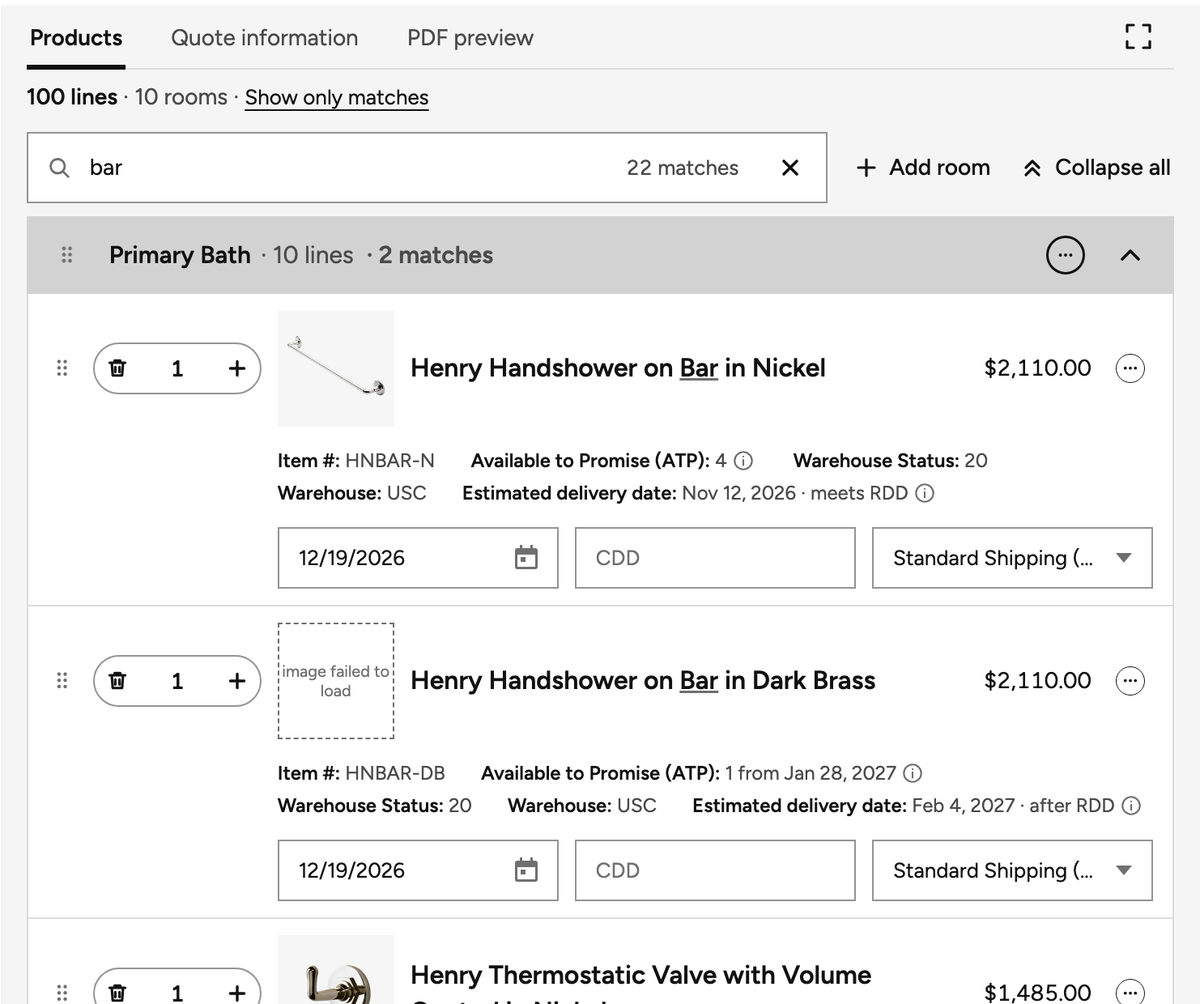
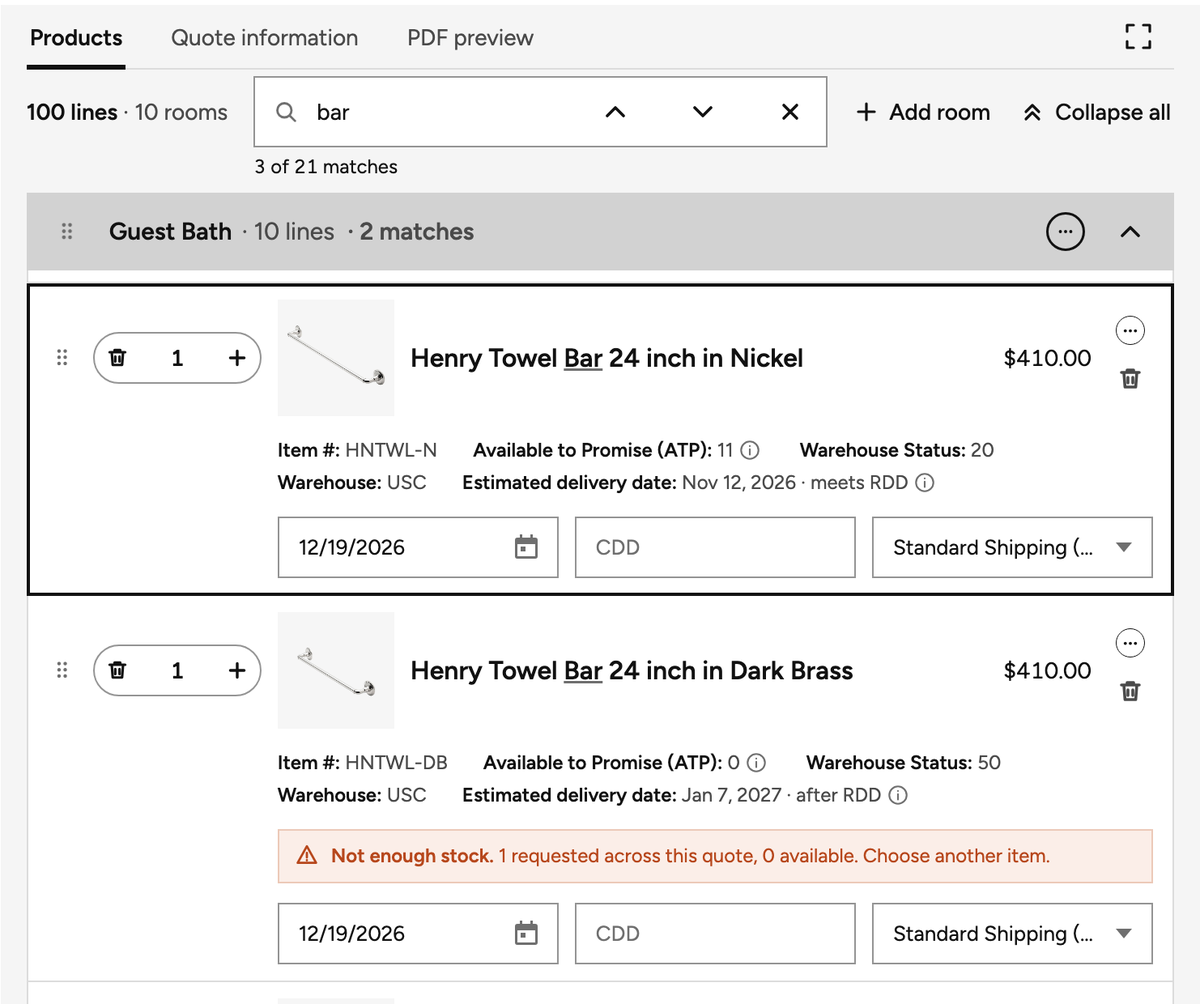
Find in this quote: find-in-page with arrows, items only
- Matches lines only (product name with finish, or item number), never
  room names.
- Up and down arrows in the box, plus Enter and Shift+Enter, step through
  every match in quote order, wrapping at the ends; the panel scrolls each
  line into view and the current line gets a black outline.
- "3 of 21 matches" (or "No matching lines") in small black text under the
  box; room bars keep their own counts. The "Only show matching lines"
  checkbox is gone, so nothing is hidden.
- New U-04 screenshot; CLAUDE.md and prd-trace updated.

diff --git a/qom-product-search-prototype-v2.html b/qom-product-search-prototype-v2.html
@@ -572,11 +572,11 @@ button.thumb:focus-visible{outline:2px solid var(--ink);outline-offset:2px}
 @container quote (max-width:860px){
   .qtools{flex-wrap:wrap}
   .qtact{flex:1 1 auto;flex-wrap:wrap;justify-content:flex-end;gap:8px 16px} /* stays on the count's row while it fits; wraps under it only when it doesn't, then fills the row */
-  .qtact .lfilter{flex:1 1 120px;width:auto;min-width:120px;max-width:none;margin-right:auto} /* small base so Add room and Collapse all stay beside it; it grows into the rest of the row */
+  .qtact .lfind{flex:1 1 120px;min-width:120px;max-width:none;margin-right:auto} /* small base so Add room and Collapse all stay beside it; it grows into the rest of the row */
 }
 @container quote (max-width:440px){
   .qtsum{flex-wrap:wrap;row-gap:2px}
-  .qtact .lfilter{flex-basis:100%;margin-right:0} /* the find box gets its own row; Add room and Collapse all sit under it */
+  .qtact .lfind{flex-basis:100%;margin-right:0} /* the find box gets its own row; Add room and Collapse all sit under it */
   .qbar .qtop,.qbar .qseg{min-width:0}
   .qbar .qseg{gap:16px}
   .qbar .qtab{flex:0 1 auto;min-width:0;font-size:13px;overflow:hidden;text-overflow:ellipsis}
@@ -591,10 +591,13 @@ button.thumb:focus-visible{outline:2px solid var(--ink);outline-offset:2px}
 /* Find in this quote: "2 of 5", previous / next and clear sit inside the field once there's something typed */
 .lfilter.on{min-width:min(340px,100%);padding-right:0}
 .lfilter [hidden]{display:none}
-.fonly{display:inline-flex;align-items:center;gap:8px;font-size:14px;color:var(--ink);white-space:nowrap;cursor:pointer}
-.fonly[hidden]{display:none}
-.fonly input{width:16px;height:16px;margin:0;accent-color:var(--ink);cursor:inherit}
-.fonly.off{color:var(--ink-3);cursor:default}
+/* the find box and its count: "3 of 21 matches" in small black text under the box, so the box keeps its width for typing */
+.lfind{position:relative;display:flex;flex:1 1 300px;min-width:150px;max-width:480px}
+.lfind .lfilter{flex:1 1 auto;width:100%;min-width:0;max-width:none}
+.findsub{position:absolute;left:0;top:calc(100% + 4px);margin:0;font-size:12px;line-height:16px;color:var(--ink);white-space:nowrap;font-variant-numeric:tabular-nums}
+.findsub[hidden]{display:none}
+.qtools.finding{padding-bottom:20px} /* room for the count under the box */
+.line.findcur{outline:2px solid var(--ink);outline-offset:-2px} /* the match the arrows are on */
 .lfilter input::-webkit-search-cancel-button{-webkit-appearance:none;appearance:none} /* our own clear button instead */
 .lfilter .findn{flex:none;font-size:13px;color:var(--ink-2);font-variant-numeric:tabular-nums;white-space:nowrap}
 .lfilter .fbtn{flex:none;width:44px;height:44px;margin:-1px 0;display:flex;align-items:center;justify-content:center;border:0;background:transparent;color:var(--ink);padding:0}
@@ -756,7 +759,7 @@ button.thumb:focus-visible{outline:2px solid var(--ink);outline-offset:2px}
 /* while the bar has nothing to show (Shipping Details switch hidden), the first room lines up with the top of the Rooms panel on the left */
 /* full view: the toolbar pins just under the tabs row; its 16px top padding is the gap under the tabs, so nothing peeks out above it */
 .pane.quote.expanded .qbar,.pane.quote.expanded .qbar:not(:has(.shipsw:not([hidden]))){top:-16px;margin-top:-16px;padding-top:16px;padding-bottom:8px}
-.pane.quote.expanded .lfilter{max-width:560px} /* full view: the find box grows into the toolbar row */
+.pane.quote.expanded .lfind{max-width:560px} /* full view: the find box grows into the toolbar row */
 .pane.quote.expanded .qfoot{bottom:-24px}
 body.noscroll{overflow:hidden}
 /* full screen: left panel with rooms, totals and save actions; products on the right */
@@ -1163,8 +1166,7 @@ body{padding-bottom:var(--bar-h,0px)} /* the page and both sides end above it */
         <div class="qtools" id="qTools">
           <div class="qtsum"><h2 class="sr">Selected products</h2><p class="qtcount" id="qtCount" aria-live="polite"></p></div>
           <div class="qtact" id="qtAct">
-            <label class="lfilter"><svg width="14" height="14" viewBox="0 0 16 16" fill="none" stroke="currentColor" stroke-width="1.6" stroke-linecap="round" aria-hidden="true"><circle cx="7" cy="7" r="5"/><path d="M11 11l3.5 3.5"/></svg><input type="search" id="lineFilter" placeholder="Find in this quote" aria-label="Find in this quote: product name, item number or room" autocomplete="off"><span class="findn" id="findCount" aria-live="polite" hidden></span><button type="button" class="fbtn" id="findClear" aria-label="Clear find" hidden><svg width="12" height="12" viewBox="0 0 12 12" fill="none" stroke="currentColor" stroke-width="1.8" stroke-linecap="round" aria-hidden="true"><path d="M2 2l8 8M10 2l-8 8"/></svg></button></label>
-            <label class="fonly" id="findOnlyWrap" hidden><input type="checkbox" id="findOnlyChk" autocomplete="off"><span>Only show matching lines</span></label>
+            <div class="lfind"><label class="lfilter"><svg width="14" height="14" viewBox="0 0 16 16" fill="none" stroke="currentColor" stroke-width="1.6" stroke-linecap="round" aria-hidden="true"><circle cx="7" cy="7" r="5"/><path d="M11 11l3.5 3.5"/></svg><input type="search" id="lineFilter" placeholder="Find in this quote" aria-label="Find in this quote: product name, finish or item number" aria-describedby="findSub" autocomplete="off"><button type="button" class="fbtn" id="findPrev" aria-label="Previous match" hidden><svg width="12" height="8" viewBox="0 0 12 8" fill="none" stroke="currentColor" stroke-width="1.8" stroke-linecap="round" stroke-linejoin="round" aria-hidden="true"><path d="M1 6.5l5-5 5 5"/></svg></button><button type="button" class="fbtn" id="findNext" aria-label="Next match" hidden><svg width="12" height="8" viewBox="0 0 12 8" fill="none" stroke="currentColor" stroke-width="1.8" stroke-linecap="round" stroke-linejoin="round" aria-hidden="true"><path d="M1 1.5l5 5 5-5"/></svg></button><button type="button" class="fbtn" id="findClear" aria-label="Clear find" hidden><svg width="12" height="12" viewBox="0 0 12 12" fill="none" stroke="currentColor" stroke-width="1.8" stroke-linecap="round" aria-hidden="true"><path d="M2 2l8 8M10 2l-8 8"/></svg></button></label><p class="findsub" id="findSub" aria-live="polite" hidden></p></div>
             <button type="button" class="tolink qtfold" id="toolAddBtn" aria-controls="roomMenu"><svg width="12" height="12" viewBox="0 0 12 12" fill="none" stroke="currentColor" stroke-width="1.6" stroke-linecap="round" aria-hidden="true"><path d="M6 1v10M1 6h10"/></svg><span>Add room</span></button>
             <button type="button" class="tolink qtfold" id="foldAll"></button>
           </div>
@@ -1727,7 +1729,7 @@ function renderRoomMenu(){
 const grip=(type,room,sku,label)=>`<button type="button" class="grip" data-grip="${type}" data-groom="${esc(room)}" data-gsku="${esc(sku)}" aria-label="Reorder ${esc(label)}. Drag, or press arrow up or down." title="Drag to reorder">⠿</button>`;
 // room name, then its type in grey unless the name is just the type ("sams kitchen · Kitchen", but "Bar", not "Bar · Bar").
 // Renaming is only in the room's "…" menu; a click on the name opens the room like the rest of the bar
-const roomName=r=>findHl(r.name,isFindHit(r.name))+(r.type&&r.type.toLowerCase()!==r.name.trim().toLowerCase()?` <span class="rtype">· ${esc(r.type)}</span>`:"");
+const roomName=r=>esc(r.name)+(r.type&&r.type.toLowerCase()!==r.name.trim().toLowerCase()?` <span class="rtype">· ${esc(r.type)}</span>`:"");
 // quantity cell: stepper always visible; unit + info icon unless the unit is "each"; the sold-in multiple is helper text, not just a tooltip
 const ICON={
   door:`<svg width="20" height="20" viewBox="0 0 20 20" fill="none" stroke="currentColor" stroke-width="1.5" stroke-linejoin="round" aria-hidden="true"><path d="M5 18V2h10v16M3 18h14M5 2l6 2v14"/><circle cx="9.3" cy="10.5" r=".6" fill="currentColor"/></svg>`,
@@ -1978,42 +1980,34 @@ const qtyCell=(r,l,p,id)=>{
 // the Details switch only appears once the quote has rooms with lines in them
 const SHOW_DET_SWITCH=false; // the Shipping Details switch is hidden for now; set to true to bring it back
 const detSwShown=()=>{ $("#detSwWrap").hidden=!SHOW_DET_SWITCH||S.qview!=="products"||!S.quote.rooms.some(r=>r.lines.length); };
-// "Find in this quote" (long quotes run to 100 lines): goes to the best match, marks every match and counts them, in the box and on each room bar.
-// Matches are counted in lines. Nothing is hidden unless the SC ticks "Only show matching lines" beside the box; the count line then says "Showing 21 matching lines of 100".
-// Enter goes to the next best match and Shift+Enter back; there are no arrow buttons. S.lineQ is the applied search (after a pause or Enter).
-// A match is a room whose name has every word, or a line whose product name (with its finish, as shown: "… in Nickel") or item number has at least one word
-// and, together with its room name, all of them (any order, any case). Words match at the start of a word ("bar" finds "on Bar",
-// not "Barlow" or "Crossbar"), and item numbers from their start ("hnbar" finds HNBAR-N, "bar" doesn't). Collapsed rooms count too; going to one opens it.
-// Best match first: exact item number, then item number starting with it, the phrase in the product name,
-// every word in the product's own name or number, other product matches, and rooms last; ties keep quote order.
+// "Find in this quote" (long quotes run to 100 lines), the usual find-in-page pattern: it finds lines only (product name with its finish, as shown:
+// "… in Nickel", or item number), never rooms. After a short pause or Enter it underlines every match and goes to the best one; the up and down
+// arrows in the box (or Enter and Shift+Enter) then step through them one by one in quote order, wrapping at the ends, and the panel scrolls to each.
+// Under the box, small black text says where you are: "3 of 21 matches". Each room bar shows how many of its lines match. Nothing is hidden.
+// Every word must match the start of a word in the name ("bar" finds "on Bar", not "Crossbar") or the start of the item number ("hnbar" finds HNBAR-N).
+// Collapsed rooms count too; going to a match opens its room. The first match shown is the best one: exact item number, then item number
+// starting with it, the phrase in the name, then the rest (ties: the first in the quote). S.lineQ is the applied search.
 const FIND={stops:[],i:-1,timer:0};
 const findWords=()=>S.lineQ.trim().toLowerCase().split(/\s+/).filter(Boolean);
 const wordAt=(t,i)=>i===0||!/[a-z0-9]/i.test(t[i-1]); // a match must start a word
 const startsWord=(text,x)=>{ const t=text.toLowerCase(); for(let i=t.indexOf(x);i!==-1;i=t.indexOf(x,i+1)) if(wordAt(t,i)) return true; return false; };
 function findStops(){ const w=findWords(), out=[]; if(!w.length) return out; const phrase=w.join(" "), code=phrase.replace(/\s+/g,"");
-  S.quote.rooms.forEach(r=>{ const rn=r.name.toLowerCase(), inRoom=x=>startsWord(rn,x); if(w.every(inRoom)) out.push({room:r.name,sku:null,score:rn.trim()===phrase?15:10}); // rooms rank below every product: SCs are usually looking for a line
-    r.lines.forEach(l=>{ const p=CAT.find(x=>x.sku===l.sku), nm=(p.name+" in "+p.fin).toLowerCase(), ids=[p.sku,p.same||""].map(x=>x.toLowerCase()).filter(Boolean);
-      const own=x=>startsWord(nm,x)||ids.some(id=>id.startsWith(x));
-      if(!(w.some(own)&&w.every(x=>own(x)||inRoom(x)))) return;
-      const score=ids.includes(code)?100:ids.some(x=>x.startsWith(code))?90:startsWord(nm,phrase)?60:w.every(own)?40:20;
-      out.push({room:r.name,sku:l.sku,score}); }); });
-  return out.map((s,i)=>({...s,i})).sort((a,b)=>b.score-a.score||a.i-b.i); }
+  S.quote.rooms.forEach(r=>r.lines.forEach(l=>{ const p=CAT.find(x=>x.sku===l.sku), nm=(p.name+" in "+p.fin).toLowerCase(), ids=[p.sku,p.same||""].map(x=>x.toLowerCase()).filter(Boolean);
+    const own=x=>startsWord(nm,x)||ids.some(id=>id.startsWith(x)); if(!w.every(own)) return;
+    out.push({room:r.name,sku:l.sku,score:ids.includes(code)?100:ids.some(x=>x.startsWith(code))?90:startsWord(nm,phrase)?60:40}); }));
+  return out; } // quote order, so the arrows go down the quote
+const bestFind=()=>FIND.stops.reduce((b,s,i,a)=>s.score>a[b].score?i:b,0);
 const isFindHit=(room,sku)=>FIND.stops.some(s=>s.room===room&&(sku===undefined||s.sku===sku)); // no sku: anything in the room
-const roomHitLines=room=>FIND.stops.filter(s=>s.room===room&&s.sku).length; // matching lines in a room, for its bar and the Rooms list
-const roomNameHit=room=>FIND.stops.some(s=>s.room===room&&!s.sku);
-const findLines=()=>FIND.stops.filter(s=>s.sku).length; // matches are counted in lines, so the box, the room bars and "Showing 21 of 100 lines" all agree
-const findOnly=()=>!!S.findOnly&&findLines()>0; // "Only show matching lines" applies only while some line matches
-// lines shown under "Only show matching lines": exactly the matching lines (a room whose name matches doesn't bring all its lines)
-const findShows=(r,l)=>!findOnly()||isFindHit(r.name,l.sku);
+const roomHitLines=room=>FIND.stops.filter(s=>s.room===room).length; // matching lines in a room, for its bar and the Rooms list
+const findCur=(r,l)=>{ const c=FIND.stops[FIND.i]; return !!c&&c.room===r.name&&c.sku===l.sku; }; // the match the arrows are on
 function findHl(text,on,id){ text=String(text); const w=findWords(); if(!on||!w.length) return esc(text); // same marking as hl() in the results; id: item numbers mark from the start only
   const lower=text.toLowerCase(), m=new Array(text.length).fill(false);
   w.forEach(t=>{ if(id){ if(lower.startsWith(t)) m.fill(true,0,t.length); return; } for(let i=lower.indexOf(t); i!==-1; i=lower.indexOf(t,i+1)) if(wordAt(lower,i)) m.fill(true,i,i+t.length); });
   let out="", i=0; while(i<text.length){ let j=i; while(j<text.length&&m[j]===m[i]) j++; out+=m[i]?"<mark>"+esc(text.slice(i,j))+"</mark>":esc(text.slice(i,j)); i=j; } return out; }
 function renderFindCount(){ const on=!!S.lineQ.trim(), n=FIND.stops.length, typed=!!$("#lineFilter").value;
-  $(".lfilter").classList.toggle("on",on||typed); $("#findCount").hidden=!on; $("#findClear").hidden=!typed&&!on;
-  const ln=findLines(); // lines only; a room whose name matches is marked and can be gone to, but isn't counted
-  $("#findCount").textContent=!on?"":ln?`${ln} match${ln===1?"":"es"}`:n?"Room only":"No matches";
-  $("#findOnlyWrap").hidden=!on; $("#findOnlyChk").checked=findOnly(); $("#findOnlyChk").disabled=!ln; $("#findOnlyWrap").classList.toggle("off",!ln); } // a count only, no "2 of 14" and no arrows
+  $(".lfilter").classList.toggle("on",on||typed); $("#findClear").hidden=!typed&&!on; $("#findPrev").hidden=$("#findNext").hidden=!on; $("#findPrev").disabled=$("#findNext").disabled=!n;
+  $("#findSub").hidden=!on; $("#qTools").classList.toggle("finding",on);
+  $("#findSub").textContent=!on?"":n?`${Math.max(FIND.i,0)+1} of ${n} match${n===1?"":"es"}`:"No matching lines"; }
 // scrolling: the quote scrolls the page, its own pane (layout C) or the full view; the title bar and room bars pin over it
 const scrollerOf=el=>{ for(let n=el.parentElement;n&&n!==document.body;n=n.parentElement){ const o=getComputedStyle(n).overflowY; if((o==="auto"||o==="scroll")&&n.scrollHeight>n.clientHeight) return n; } return window; };
 function pinnedBottom(el){ let b=$(".qbar").getBoundingClientRect().bottom; const h=el.classList.contains("line")?el.closest(".rmblock")?.querySelector(".roomhdr"):null;
@@ -2024,14 +2018,12 @@ function renderQTools(rooms){
   const n=rooms.reduce((a,r)=>a+r.lines.length,0), q=S.lineQ.trim();
   const prod=S.qview==="products"; // counts and tools are Products view only
   const rc=`${rooms.length} room${rooms.length===1?"":"s"}`;
-  const shown=findOnly()?findLines():0;
-  $("#qtCount").innerHTML=!rooms.length?"":findOnly()?`<b>Showing ${shown} matching line${shown===1?"":"s"} of ${n}</b>`
-    :n?`<b>${n} line${n===1?"":"s"}</b> · ${rc}${S.view==="commercial"?` · Total blended margin <button type="button" class="bmlink" id="bmLink" aria-label="Total blended margin ${blendedMargin().toFixed(2)}%. Edit it in the full breakdown" title="Edit in the full breakdown">${blendedMargin().toFixed(2)}%</button>`:""}`:`No products yet · ${rc}`;
+  $("#qtCount").innerHTML=!rooms.length?"":n?`<b>${n} line${n===1?"":"s"}</b> · ${rc}${S.view==="commercial"?` · Total blended margin <button type="button" class="bmlink" id="bmLink" aria-label="Total blended margin ${blendedMargin().toFixed(2)}%. Edit it in the full breakdown" title="Edit in the full breakdown">${blendedMargin().toFixed(2)}%</button>`:""}`:`No products yet · ${rc}`;
   $("#qtCount").hidden=!prod||!$("#qtCount").innerHTML;
   $("#qtAct").hidden=!prod||!rooms.length;
   $("#qTools").hidden=$("#qtCount").hidden&&$("#qtAct").hidden; // nothing to show (another view): no blank strip under the tabs
   $("#toolAddBtn").hidden=!!S.expanded; // full screen has its own in the Rooms panel
-  $(".lfilter").hidden=!n&&!q; // nothing to find on a quote with no lines
+  $(".lfind").hidden=!n&&!q; // nothing to find on a quote with no lines
   renderFindCount();
   $("#foldAll").hidden=rooms.length<2; // one room: its own chevron does the job
   const anyOpen=rooms.some(r=>S.allOpen?!S.folded.includes(r.name):(S.room===r.name&&S.collapsedFor!==r.name));
@@ -2041,18 +2033,17 @@ function renderQTools(rooms){
 const ADD_ROOM_FORM=()=>`<form class="sideform" id="sideRoomForm" aria-label="Add room"><select id="sideRoomType" aria-label="Room type (required)" required><option value="" selected disabled>Room type (required)</option>${ROOM_TYPES.map(t=>`<option>${t}</option>`).join("")}</select><input id="sideRoomName" placeholder="Room name (optional)" aria-label="Room name (optional)" aria-describedby="sideRoomErr"><p class="form-err" id="sideRoomErr" role="alert" hidden></p><div class="row"><button type="submit" class="btn">Add room</button><button type="button" class="btn ghost" id="sideRoomCancel">Cancel</button></div><p class="hint">Leave the name blank to use the room type. <span class="fr">FR-21</span></p></form>`;
 function renderQuote(){
   RISK=computeRisk();
-  FIND.stops=findStops();
+  FIND.stops=findStops(); if(FIND.i>=FIND.stops.length) FIND.i=FIND.stops.length-1;
   if(S.collapsedFor && S.collapsedFor!==S.room) S.collapsedFor=null; // only the room you're adding to is open; it can be folded shut by hand
   const rooms=S.quote.rooms; const wrap=$("#rooms"); let sub=0, bad=0;
   rooms.forEach(r=>r.lines.forEach(l=>{ const p=CAT.find(x=>x.sku===l.sku); sub+=l.qty*l.unit; if(l.qty%p.mult) bad++; }));
   if(!rooms.length&&S.expanded){ wrap.innerHTML=`<div class="empty-quote none xl"><span class="eqicon">${ICON.door}</span><h3>Start with a room</h3><p>Rooms group the quote the way your client thinks about it. Add one, then search for products to put in it.</p><button type="button" class="btn" id="emptyAdd"><svg width="12" height="12" viewBox="0 0 12 12" fill="none" stroke="currentColor" stroke-width="1.6" stroke-linecap="round" aria-hidden="true"><path d="M6 1v10M1 6h10"/></svg>Add room</button></div>`; }
   else if(!rooms.length){ wrap.innerHTML=`<div class="empty-quote none"><span class="eqicon">${ICON.door}</span><h3>No rooms yet</h3><p>Add a room, then search for products to add to it.</p><button type="button" class="btn" id="emptyAdd">Add room</button></div>`; }
   else wrap.innerHTML=rooms.map((r,ri)=>{
-    if(findOnly()&&!roomHitLines(r.name)) return ""; // "Only show matching lines": rooms with no matching line are left out (the count line says so)
-    const isOpen=findOnly()||(S.allOpen?!S.folded.includes(r.name):(S.room===r.name&&S.collapsedFor!==r.name))||SEND.focus?.room===r.name||(!!CR.open&&CR.open.split("|")[0]===r.name); // a room the checklist (or an open parts panel) points into opens too
-    const lines=!isOpen?"":r.lines.map((l,li)=>{ if(!findShows(r,l)) return ""; const p=CAT.find(x=>x.sku===l.sku); const line=l.qty*l.unit; const open=S.open.includes(l.sku+r.name);
+    const isOpen=(S.allOpen?!S.folded.includes(r.name):(S.room===r.name&&S.collapsedFor!==r.name))||SEND.focus?.room===r.name||(!!CR.open&&CR.open.split("|")[0]===r.name); // a room the checklist (or an open parts panel) points into opens too
+    const lines=!isOpen?"":r.lines.map((l,li)=>{ const p=CAT.find(x=>x.sku===l.sku); const line=l.qty*l.unit; const open=S.open.includes(l.sku+r.name);
       const com=S.view==="commercial";
-      return `<div class="line${com?" com":""}${lineFocus(r,l)?" lfocus":""}" data-lroom="${esc(r.name)}" data-lsku="${esc(l.sku)}">${r.lines.length>1?grip("line",r.name,l.sku,p.name):'<span></span>'}${qtyCell(r,l,p,"q"+ri+"_"+li)}${thumbHtml(p)}<div class="nm"><span class="pn">${findHl(p.name,isFindHit(r.name,l.sku))} in ${findHl(p.fin,isFindHit(r.name,l.sku))}</span>${crFor(r,l)}${p.kit?kitToggle(r,l,p):""}</div>${com?"":priceCell(l,p,line)}<span class="lacts"><button type="button" class="more" data-more="${esc(r.name)}|${esc(l.sku)}" aria-haspopup="menu" aria-expanded="${S.lmenu===r.name+"|"+l.sku}" aria-label="More actions for ${esc(p.name)}"><svg width="9" height="2.5" viewBox="0 0 14 4" aria-hidden="true"><circle cx="2" cy="2" r="1.5" fill="currentColor"/><circle cx="7" cy="2" r="1.5" fill="currentColor"/><circle cx="12" cy="2" r="1.5" fill="currentColor"/></svg></button><button type="button" class="ldel" data-ldel="${esc(r.name)}|${esc(l.sku)}" aria-label="Remove ${esc(p.name)} from the quote" title="Remove from quote">${ICON.trash}</button></span>${com?comRow(r,l,p,"c"+ri+"_"+li):""}${lineFlag(r,l)}${S.det?pdetails(p,l,isFindHit(r.name,l.sku),"d"+ri+"_"+li):""}${riskBanner(RISK.by[r.name+"|"+l.sku],p)}${p.kit?kitBox(r,l,p):""}${shipRow(r,l)}${S.lmenu===r.name+"|"+l.sku?lineMenu(r,l,p):""}</div>${crAfter(r,l,p)}`; }).join("");
+      return `<div class="line${com?" com":""}${lineFocus(r,l)?" lfocus":""}${findCur(r,l)?" findcur":""}" data-lroom="${esc(r.name)}" data-lsku="${esc(l.sku)}">${r.lines.length>1?grip("line",r.name,l.sku,p.name):'<span></span>'}${qtyCell(r,l,p,"q"+ri+"_"+li)}${thumbHtml(p)}<div class="nm"><span class="pn">${findHl(p.name,isFindHit(r.name,l.sku))} in ${findHl(p.fin,isFindHit(r.name,l.sku))}</span>${crFor(r,l)}${p.kit?kitToggle(r,l,p):""}</div>${com?"":priceCell(l,p,line)}<span class="lacts"><button type="button" class="more" data-more="${esc(r.name)}|${esc(l.sku)}" aria-haspopup="menu" aria-expanded="${S.lmenu===r.name+"|"+l.sku}" aria-label="More actions for ${esc(p.name)}"><svg width="9" height="2.5" viewBox="0 0 14 4" aria-hidden="true"><circle cx="2" cy="2" r="1.5" fill="currentColor"/><circle cx="7" cy="2" r="1.5" fill="currentColor"/><circle cx="12" cy="2" r="1.5" fill="currentColor"/></svg></button><button type="button" class="ldel" data-ldel="${esc(r.name)}|${esc(l.sku)}" aria-label="Remove ${esc(p.name)} from the quote" title="Remove from quote">${ICON.trash}</button></span>${com?comRow(r,l,p,"c"+ri+"_"+li):""}${lineFlag(r,l)}${S.det?pdetails(p,l,isFindHit(r.name,l.sku),"d"+ri+"_"+li):""}${riskBanner(RISK.by[r.name+"|"+l.sku],p)}${p.kit?kitBox(r,l,p):""}${shipRow(r,l)}${S.lmenu===r.name+"|"+l.sku?lineMenu(r,l,p):""}</div>${crAfter(r,l,p)}`; }).join("");
     return `<div class="rmblock" data-rm="${esc(r.name)}"><div class="roomhdr${S.room===r.name?' active':''}${S.rmenu===r.name?' menuopen':''}" data-roomhdr="${esc(r.name)}"><span>${rooms.length>1?grip("room",r.name,"",r.name)+" ":""}${roomName(r)} <span class="rcount">· ${r.lines.length} line${r.lines.length===1?"":"s"}</span>${(m=>m?`<span class="rfind">· ${m} match${m===1?"":"es"}</span>`:"")(S.lineQ.trim()?roomHitLines(r.name):0)}${S.room===r.name?'<span class="addtag">Adding here</span>':""}</span><span class="hdrend">${(()=>{ const a=isOpen?{n:0}:roomAttention(r); return a.n?`<span class="rwarn ${a.sev}" title="${a.n} line${a.n===1?"":"s"} in this room need${a.n===1?"s":""} attention">${RI.bad}${a.n} need${a.n===1?"s":""} attention</span>`:""; })()}<button type="button" class="more rmore" data-rmore="${esc(r.name)}" aria-haspopup="menu" aria-expanded="${S.rmenu===r.name}" aria-label="More actions for ${esc(r.name)}">${MORE_DOTS}</button>${S.rmenu===r.name?roomMenu(r):""}<button type="button" class="rchev" data-toggleroom="${esc(r.name)}" aria-expanded="${isOpen}" aria-label="${isOpen?"Fold up":"Open"} ${esc(r.name)}"><svg width="12" height="8" viewBox="0 0 12 8" fill="none" stroke="currentColor" stroke-width="1.8" stroke-linecap="round" stroke-linejoin="round" aria-hidden="true"><path d="M1 1.5l5 5 5-5"/></svg></button></span></div>${!isOpen?'':(lines||`<div class="empty-quote"><b>No products in this room yet</b><button type="button" class="tolink addprod" data-addprod="${esc(r.name)}">Search for products to add here <span aria-hidden="true">→</span></button></div>`)}</div>`;
   }).join("");
   // once any room has products, a full-width row at the end adds another room
@@ -2479,28 +2470,26 @@ document.addEventListener("submit",e=>{ if(e.target.id!=="sideRoomForm") return;
   if(S.scenario==="noroom"){S.scenario="normal";$("#scenario").value="normal";}
   renderRoom(); renderResults(); renderQuote(); showToast(`${name} added. Add products to it when you're ready.`,"ok");
   const blk=document.querySelector(`.rmblock[data-rm="${CSS.escape(name)}"]`); blk?.scrollIntoView({block:"start"}); blk?.querySelector("[data-addprod]")?.focus(); });
-// Find in this quote: after a short pause or Enter, marks every match and goes to the best one; Enter then goes to the next best, Shift+Enter back
+// Find in this quote: after a short pause or Enter, marks every match and goes to the best one; the arrows, Enter and Shift+Enter then step through them in quote order
 const findPending=()=>$("#lineFilter").value.trim()!==S.lineQ.trim();
-function applyFind(){ clearTimeout(FIND.timer); S.lineQ=$("#lineFilter").value; FIND.i=-1; renderQuote(); if(FIND.stops.length) goToFind(0); }
-function clearFind(){ clearTimeout(FIND.timer); $("#lineFilter").value=""; S.lineQ=""; S.findOnly=false; FIND.i=-1; renderQuote(); }
-function stepFind(d){ if(findPending()){ applyFind(); return; } const n=FIND.stops.length; if(n) goToFind(FIND.i<0?0:(FIND.i+d+n)%n); }
+function applyFind(){ clearTimeout(FIND.timer); S.lineQ=$("#lineFilter").value; FIND.i=-1; renderQuote(); if(FIND.stops.length) goToFind(bestFind()); }
+function clearFind(){ clearTimeout(FIND.timer); $("#lineFilter").value=""; S.lineQ=""; FIND.i=-1; renderQuote(); }
+function stepFind(d){ if(findPending()){ applyFind(); return; } const n=FIND.stops.length; if(n) goToFind(FIND.i<0?bestFind():(FIND.i+d+n)%n); }
 function goToFind(i){ FIND.i=i; const s=FIND.stops[i], r=S.quote.rooms.find(x=>x.name===s.room); if(!r) return;
   const open=x=>S.allOpen?!S.folded.includes(x.name):(S.room===x.name&&S.collapsedFor!==x.name);
   if(!open(r)){ if(S.allOpen) S.folded=S.folded.filter(x=>x!==r.name); else if(S.room===r.name) S.collapsedFor=null;
     else { S.folded=S.quote.rooms.filter(x=>x!==r&&!open(x)).map(x=>x.name); S.allOpen=true; } } // opens this room, keeps the others as they were and doesn't change "Adding here"
   renderQuote();
-  const blk=document.querySelector(`.rmblock[data-rm="${CSS.escape(s.room)}"]`), el=s.sku?blk?.querySelector(`.line[data-lsku="${CSS.escape(s.sku)}"]`):blk?.querySelector(".roomhdr"); if(!el) return;
+  const blk=document.querySelector(`.rmblock[data-rm="${CSS.escape(s.room)}"]`), el=blk?.querySelector(`.line[data-lsku="${CSS.escape(s.sku)}"]`); if(!el) return;
   revealBelowHeader(el); el.classList.add("findhit"); setTimeout(()=>el.classList.remove("findhit"),1600); }
 document.addEventListener("input",e=>{ if(e.target.id!=="lineFilter") return; clearTimeout(FIND.timer);
-  if(!e.target.value.trim()){ if(S.lineQ){ S.lineQ=""; S.findOnly=false; FIND.i=-1; renderQuote(); } else renderFindCount(); return; }
+  if(!e.target.value.trim()){ if(S.lineQ){ S.lineQ=""; FIND.i=-1; renderQuote(); } else renderFindCount(); return; }
   renderFindCount(); FIND.timer=setTimeout(applyFind,350); });
 document.addEventListener("keydown",e=>{ if(e.target.id!=="lineFilter") return;
   if(e.key==="Enter"){ e.preventDefault(); stepFind(e.shiftKey?-1:1); return; }
   if(e.key==="Escape"&&(e.target.value||S.lineQ)){ e.preventDefault(); e.stopImmediatePropagation(); clearFind(); } }); // first Esc clears the find, not full view
-document.addEventListener("click",e=>{ const b=e.target.closest("#findClear"); if(!b) return; e.preventDefault(); clearFind(); $("#lineFilter").focus(); });
-// "Only show matching lines": a checkbox beside the find box that keeps its place and its label; ticked, lines and rooms that don't match fold away
-// and the count line says "Showing 21 matching lines of 100", the same number as the box. It shows while a find is applied and is disabled when nothing matches.
-document.addEventListener("change",e=>{ if(e.target.id!=="findOnlyChk") return; S.findOnly=e.target.checked; renderQuote(); $("#findOnlyChk").focus(); $("#qtCount").scrollIntoView({block:"nearest"}); });
+document.addEventListener("click",e=>{ const b=e.target.closest("#findPrev,#findNext,#findClear"); if(!b) return; e.preventDefault();
+  if(b.id==="findClear"){ clearFind(); $("#lineFilter").focus(); } else { stepFind(b.id==="findNext"?1:-1); b.focus(); } }); // focus stays on the arrow, so it can be pressed again
 // Add room from anywhere: full screen uses the Rooms panel form; otherwise the search side's room menu (switching to it on layout B's Quote tab)
 function startAddRoom(){
   if(S.expanded){ S.sideAdd=true; S.qview="products"; renderQView(); renderQuote(); $("#sideRoomType").focus(); return; }
@@ -2540,7 +2529,7 @@ document.addEventListener("change",e=>{
     if(t.value==="normal"){ S.query="faucet"; S.filters.fin.add("Brass"); S.filters.cat.add("Fittings"); }
     if(t.value==="fresh"||t.value==="normal"){ $("#q").value=S.query; $("#clearQ").hidden=!S.query; renderFilters(); }
     markSaved(); applySendScenario(t.value); renderRoom(); renderRoomMenu();
-    $("#lineFilter").value=t.value==="long"?"bar":""; S.lineQ=$("#lineFilter").value; S.findOnly=false; FIND.i=-1; // the U-04 demo opens with "bar" found (21 matching lines in 9 rooms); other scenarios start with no find
+    $("#lineFilter").value=t.value==="long"?"bar":""; S.lineQ=$("#lineFilter").value; FIND.i=-1; // the U-04 demo opens with "bar" found; other scenarios start with no find
     renderQuote(); search(); if(t.value==="long") applyFind(); return; }
   if(t.id==="view"){ setView(t.value); return; }
   if(t.id==="conceptRP"){ CR.on=t.checked; CR.open=null; CR.size={}; crHash(CR.on); renderQuote(); renderResults(); return; }

diff --git a/CLAUDE.md b/CLAUDE.md
@@ -28,7 +28,7 @@ Extract the `<script>` contents and run `node --check` on them. One stray charac
 - Room picker: the quote's own rooms come first, then "+ Add room", then the standard room types. One form adds or renames a room: "Rename room" in a room's "…" menu opens the Add room form filled in. Type is required and name is optional. The room bar shows the type in grey after the name ("sams kitchen · Kitchen") unless they're the same.
 - Quote panel: rooms, lines, quantities, per-line shipping, "Find in this quote", plus Quote information and PDF preview tabs.
 - Removing a line: every line has a delete button under its "…" menu (Nick and Vicki, Nov 5). Every way of removing a line (that button, "Remove Product" in the "…" menu, and the stepper's trash at the minimum) opens a confirmation showing the product, quantity and room, with Cancel and "Yes, delete". Undo appears after the line goes.
-- Find in this quote: words match at the start of a word, in the product name with its finish ("… in Nickel"), and item numbers match from their start. It goes to the best match (exact item number first, rooms last), underlines every match, and counts matching lines (a room whose name matches is marked but not counted): "21 matches" in the box and "· 2 matches" on each room bar and in the full-view Rooms list. Nothing is hidden unless the SC ticks "Only show matching lines" beside the box, which shows exactly those lines; the count line then reads "Showing 21 matching lines of 100". No arrow buttons: Enter goes to the next best match, Shift+Enter back.
+- Find in this quote: the usual find-in-page pattern, for items only (rooms are never matched). Every word must match the start of a word in the product name with its finish ("… in Nickel") or the start of the item number. After a pause or Enter it underlines every match and goes to the best one (exact item number first); the up and down arrows in the box, or Enter and Shift+Enter, then step through the matches one by one in quote order, wrapping at the ends, and the panel scrolls to each. The current line has a black outline. Small black text under the box says "3 of 21 matches" (or "No matching lines"), and each room bar shows "· 2 matches". Nothing is hidden.
 - Quantities follow QOM-2491 (order multiples): items sold in multiples start at one multiple, + and − step by it, and the helper reads "Sold in increments of 10 square feet". A typed amount that isn't a whole multiple rounds up to the next one, with QOM-2961's note ("Rounded up to 30 square feet: this item is sold in increments of 10 square feet."), on result rows and quote lines. A saved quantity that's already wrong is flagged, not changed.
 - Footer bar: save status with an "unsaved changes" marker, Save, Calculate freight, Send to client, and the "Before you send" panel.
 
@@ -38,7 +38,7 @@ Extract the `<script>` contents and run `node --check` on them. One stray charac
   - Normal: a "faucet" search with Finish: Brass and Category: Fittings.
   - QOM-2926 · ATP, delivery date and sourcing warehouse: adds two lines to Bar, so it shows ATP in stock, "2 from <date>" · after RDD (HNKIT-DB) and "Sourcing warehouse: USR" (HNHK-N). The lines go when you pick another scenario.
   - Fresh quote, no lines: the default on load.
-  - QOM-2514 · U-04 Find in this quote (100-line quote): 100 mock lines in 10 rooms, opening with "bar" already found (21 matching lines in 9 rooms). The usual lines come back when you pick another scenario.
+  - QOM-2514 · U-04 Find in this quote (100-line quote): 100 mock lines in 10 rooms, opening with "bar" already found (21 matching lines in 9 rooms, "1 of 21 matches"). The usual lines come back when you pick another scenario.
   - Search · Loading: mock searches take about 1.5 seconds, so "Searching…" shows.
   - Search · Error: shows the error state with Try again.
   - Footer 1 · Unsaved edits, Footer 2 · Saved, no freight, Footer 3 · Calculating freight, Footer 4 · Ready to send, Footer 5 · Blocked.

diff --git a/prd-trace.md b/prd-trace.md
@@ -71,7 +71,7 @@ PRD: `prd.md` (last updated Nov 5, 2026). Prototype: `qom-product-search-prototy
 - **Stock warnings on quote lines** (warehouse status against stock across the quote, QOM-2475/2476): likely PRD gap. It's next to FR-8 but goes further.
 - **Kit lines with "Included in this kit" components**: likely PRD gap. See contradiction 4.
 - **"Adding here" tag on the room bar, and clicking a room to target it**: likely PRD gap (FR-21).
-- **"Find in this quote" line search**: PRD gap (US-10, long quotes; U-04 in the design spec). The prototype now goes to the best match, counts matches in the box and on each room, and offers "Only show matching lines"; test it with the "QOM-2514 · U-04 Find in this quote" scenario. Proposed PRD wording: "When an SC searches within a quote, they can see how many lines match and which rooms they're in, go straight to the best match, and choose to see only the matching lines. Lines are never hidden without the screen saying so."
+- **"Find in this quote" line search**: PRD gap (US-10, long quotes; U-04 in the design spec). The prototype now finds lines only, goes to the best match, and steps through matches with arrows in the box ("3 of 21 matches" under it), with a count on each room bar; test it with the "QOM-2514 · U-04 Find in this quote" scenario. Proposed PRD wording: "When an SC searches within a quote, they can see how many lines match and which rooms they're in, go straight to the best match, and choose to see only the matching lines. Lines are never hidden without the screen saying so."
 - **Quote editing**: drag to reorder lines and rooms, duplicate or delete a room, undo remove, Join Product, Add Charge, Alt. Address. Outside this PRD.
 - **Empty quote states** ("Start with a room", "No rooms yet"): likely PRD gap (FR-19, FR-21).
 
